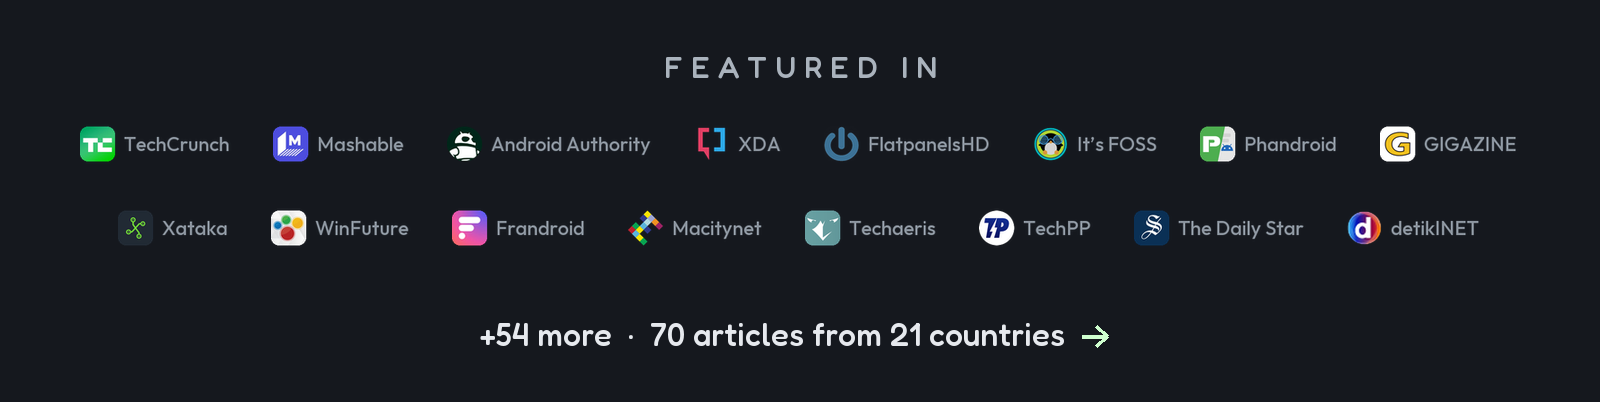
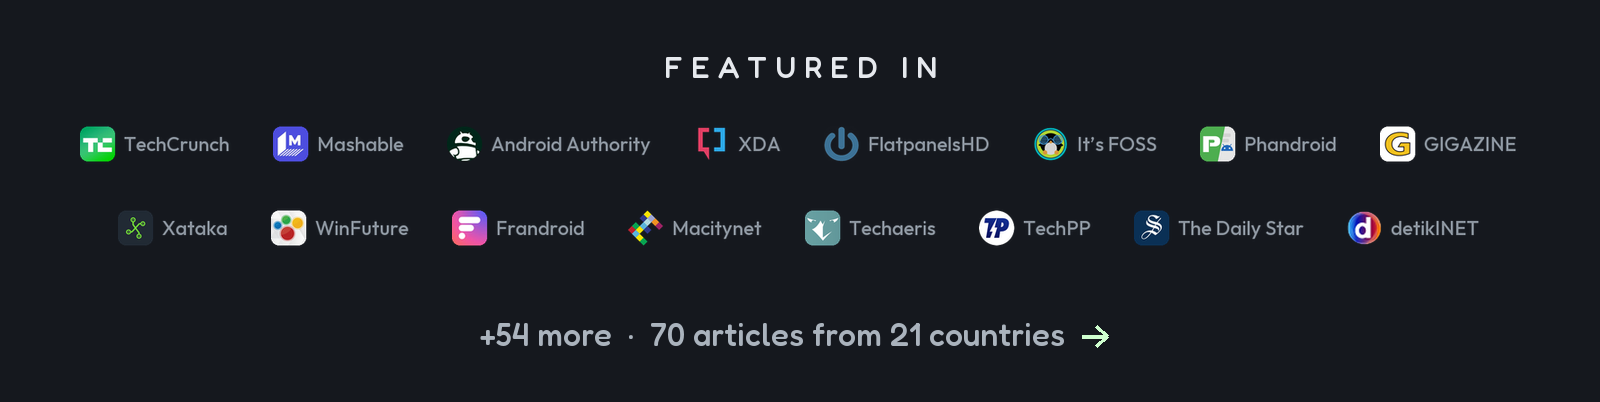
README card: Featured in title in soft white, the +54 line in grey

Changed region(s): [[0.2812, 0.806, 0.6875, 0.8657], [0.4062, 0.1194, 0.5938, 0.209]]

diff --git a/tools/readme_featured.py b/tools/readme_featured.py
@@ -26,14 +26,14 @@ top = 120; H = top + len(rows) * LH + (len(rows) - 1) * ROWGAP + 150
 img = Image.new("RGBA", (W, H), "#15181e"); d = ImageDraw.Draw(img)
 lab = f(30, 500); t = "FEATURED IN"; sp = 8
 w = sum(d.textlength(c, font=lab) for c in t) + sp * (len(t) - 1); x = (W - w) / 2
-for c in t: d.text((x, 48), c, font=lab, fill="#aab3bd"); x += d.textlength(c, font=lab) + sp
+for c in t: d.text((x, 48), c, font=lab, fill="#e6e9ee"); x += d.textlength(c, font=lab) + sp
 y = top
 for r in rows:
     x = (W - (sum(i.width for i in r) + GAP * (len(r) - 1))) / 2
     for im in r: img.alpha_composite(im, (round(x), y)); x += im.width + GAP
     y += LH + ROWGAP
 m = f(32, 500); w = d.textlength(MORE, font=m) + 56; x0 = (W - w) / 2; ty = y + 26
-d.text((x0, ty), MORE, font=m, fill="#e6e9ee")  # soft white; green stays for numbers, AFTER and arrows
+d.text((x0, ty), MORE, font=m, fill="#aab3bd")  # grey; the title is the soft white one, green stays for numbers, AFTER and arrows
 ax, ay = x0 + w - 26, ty + 22  # arrow: Fredoka has no U+2192
 d.line([(ax - 12, ay), (ax + 12, ay)], fill="#cfffcf", width=4)
 d.line([(ax + 2, ay - 10), (ax + 13, ay), (ax + 2, ay + 10)], fill="#cfffcf", width=4, joint="curve")
